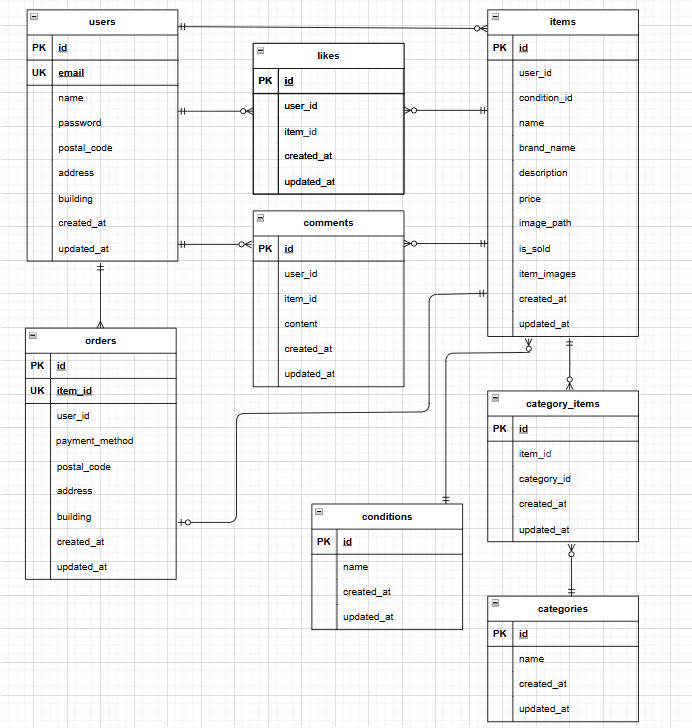
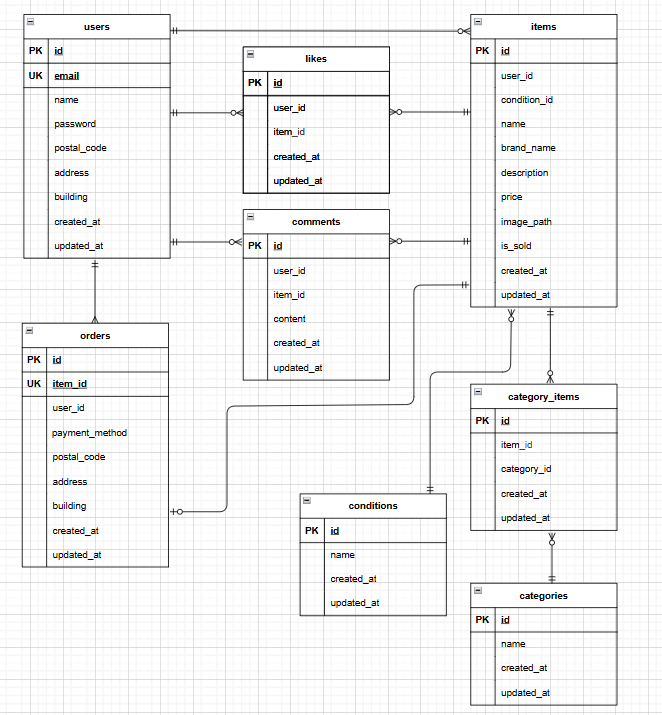
README更新

diff --git a/src/database/migrations/2026_02_20_181801_create_category_items_table.php b/src/database/migrations/2026_02_20_181801_create_category_items_table.php
@@ -1,0 +1,31 @@
+<?php
+
+use Illuminate\Database\Migrations\Migration;
+use Illuminate\Database\Schema\Blueprint;
+use Illuminate\Support\Facades\Schema;
+
+class CreateCategoryItemsTable extends Migration
+{
+    /**
+     * Run the migrations.
+     *
+     * @return void
+     */
+    public function up()
+    {
+        Schema::create('category_items', function (Blueprint $table) {
+            $table->id();
+            $table->timestamps();
+        });
+    }
+
+    /**
+     * Reverse the migrations.
+     *
+     * @return void
+     */
+    public function down()
+    {
+        Schema::dropIfExists('category_items');
+    }
+}

diff --git a/src/database/migrations/2026_02_20_181655_create_conditions_table.php b/src/database/migrations/2026_02_20_181655_create_conditions_table.php
@@ -1,0 +1,31 @@
+<?php
+
+use Illuminate\Database\Migrations\Migration;
+use Illuminate\Database\Schema\Blueprint;
+use Illuminate\Support\Facades\Schema;
+
+class CreateConditionsTable extends Migration
+{
+    /**
+     * Run the migrations.
+     *
+     * @return void
+     */
+    public function up()
+    {
+        Schema::create('conditions', function (Blueprint $table) {
+            $table->id();
+            $table->timestamps();
+        });
+    }
+
+    /**
+     * Reverse the migrations.
+     *
+     * @return void
+     */
+    public function down()
+    {
+        Schema::dropIfExists('conditions');
+    }
+}

diff --git a/src/database/migrations/2026_02_20_181706_create_categories_table.php b/src/database/migrations/2026_02_20_181706_create_categories_table.php
@@ -1,0 +1,31 @@
+<?php
+
+use Illuminate\Database\Migrations\Migration;
+use Illuminate\Database\Schema\Blueprint;
+use Illuminate\Support\Facades\Schema;
+
+class CreateCategoriesTable extends Migration
+{
+    /**
+     * Run the migrations.
+     *
+     * @return void
+     */
+    public function up()
+    {
+        Schema::create('categories', function (Blueprint $table) {
+            $table->id();
+            $table->timestamps();
+        });
+    }
+
+    /**
+     * Reverse the migrations.
+     *
+     * @return void
+     */
+    public function down()
+    {
+        Schema::dropIfExists('categories');
+    }
+}

diff --git a/src/database/migrations/2026_02_20_181742_create_comments_table.php b/src/database/migrations/2026_02_20_181742_create_comments_table.php
@@ -1,0 +1,31 @@
+<?php
+
+use Illuminate\Database\Migrations\Migration;
+use Illuminate\Database\Schema\Blueprint;
+use Illuminate\Support\Facades\Schema;
+
+class CreateCommentsTable extends Migration
+{
+    /**
+     * Run the migrations.
+     *
+     * @return void
+     */
+    public function up()
+    {
+        Schema::create('comments', function (Blueprint $table) {
+            $table->id();
+            $table->timestamps();
+        });
+    }
+
+    /**
+     * Reverse the migrations.
+     *
+     * @return void
+     */
+    public function down()
+    {
+        Schema::dropIfExists('comments');
+    }
+}

diff --git a/src/database/migrations/2026_02_20_181749_create_orders_table.php b/src/database/migrations/2026_02_20_181749_create_orders_table.php
@@ -1,0 +1,31 @@
+<?php
+
+use Illuminate\Database\Migrations\Migration;
+use Illuminate\Database\Schema\Blueprint;
+use Illuminate\Support\Facades\Schema;
+
+class CreateOrdersTable extends Migration
+{
+    /**
+     * Run the migrations.
+     *
+     * @return void
+     */
+    public function up()
+    {
+        Schema::create('orders', function (Blueprint $table) {
+            $table->id();
+            $table->timestamps();
+        });
+    }
+
+    /**
+     * Reverse the migrations.
+     *
+     * @return void
+     */
+    public function down()
+    {
+        Schema::dropIfExists('orders');
+    }
+}

diff --git a/src/database/migrations/2026_02_20_181723_create_items_table.php b/src/database/migrations/2026_02_20_181723_create_items_table.php
@@ -1,0 +1,31 @@
+<?php
+
+use Illuminate\Database\Migrations\Migration;
+use Illuminate\Database\Schema\Blueprint;
+use Illuminate\Support\Facades\Schema;
+
+class CreateItemsTable extends Migration
+{
+    /**
+     * Run the migrations.
+     *
+     * @return void
+     */
+    public function up()
+    {
+        Schema::create('items', function (Blueprint $table) {
+            $table->id();
+            $table->timestamps();
+        });
+    }
+
+    /**
+     * Reverse the migrations.
+     *
+     * @return void
+     */
+    public function down()
+    {
+        Schema::dropIfExists('items');
+    }
+}

diff --git a/src/database/migrations/2026_02_20_181735_create_likes_table.php b/src/database/migrations/2026_02_20_181735_create_likes_table.php
@@ -1,0 +1,31 @@
+<?php
+
+use Illuminate\Database\Migrations\Migration;
+use Illuminate\Database\Schema\Blueprint;
+use Illuminate\Support\Facades\Schema;
+
+class CreateLikesTable extends Migration
+{
+    /**
+     * Run the migrations.
+     *
+     * @return void
+     */
+    public function up()
+    {
+        Schema::create('likes', function (Blueprint $table) {
+            $table->id();
+            $table->timestamps();
+        });
+    }
+
+    /**
+     * Reverse the migrations.
+     *
+     * @return void
+     */
+    public function down()
+    {
+        Schema::dropIfExists('likes');
+    }
+}
